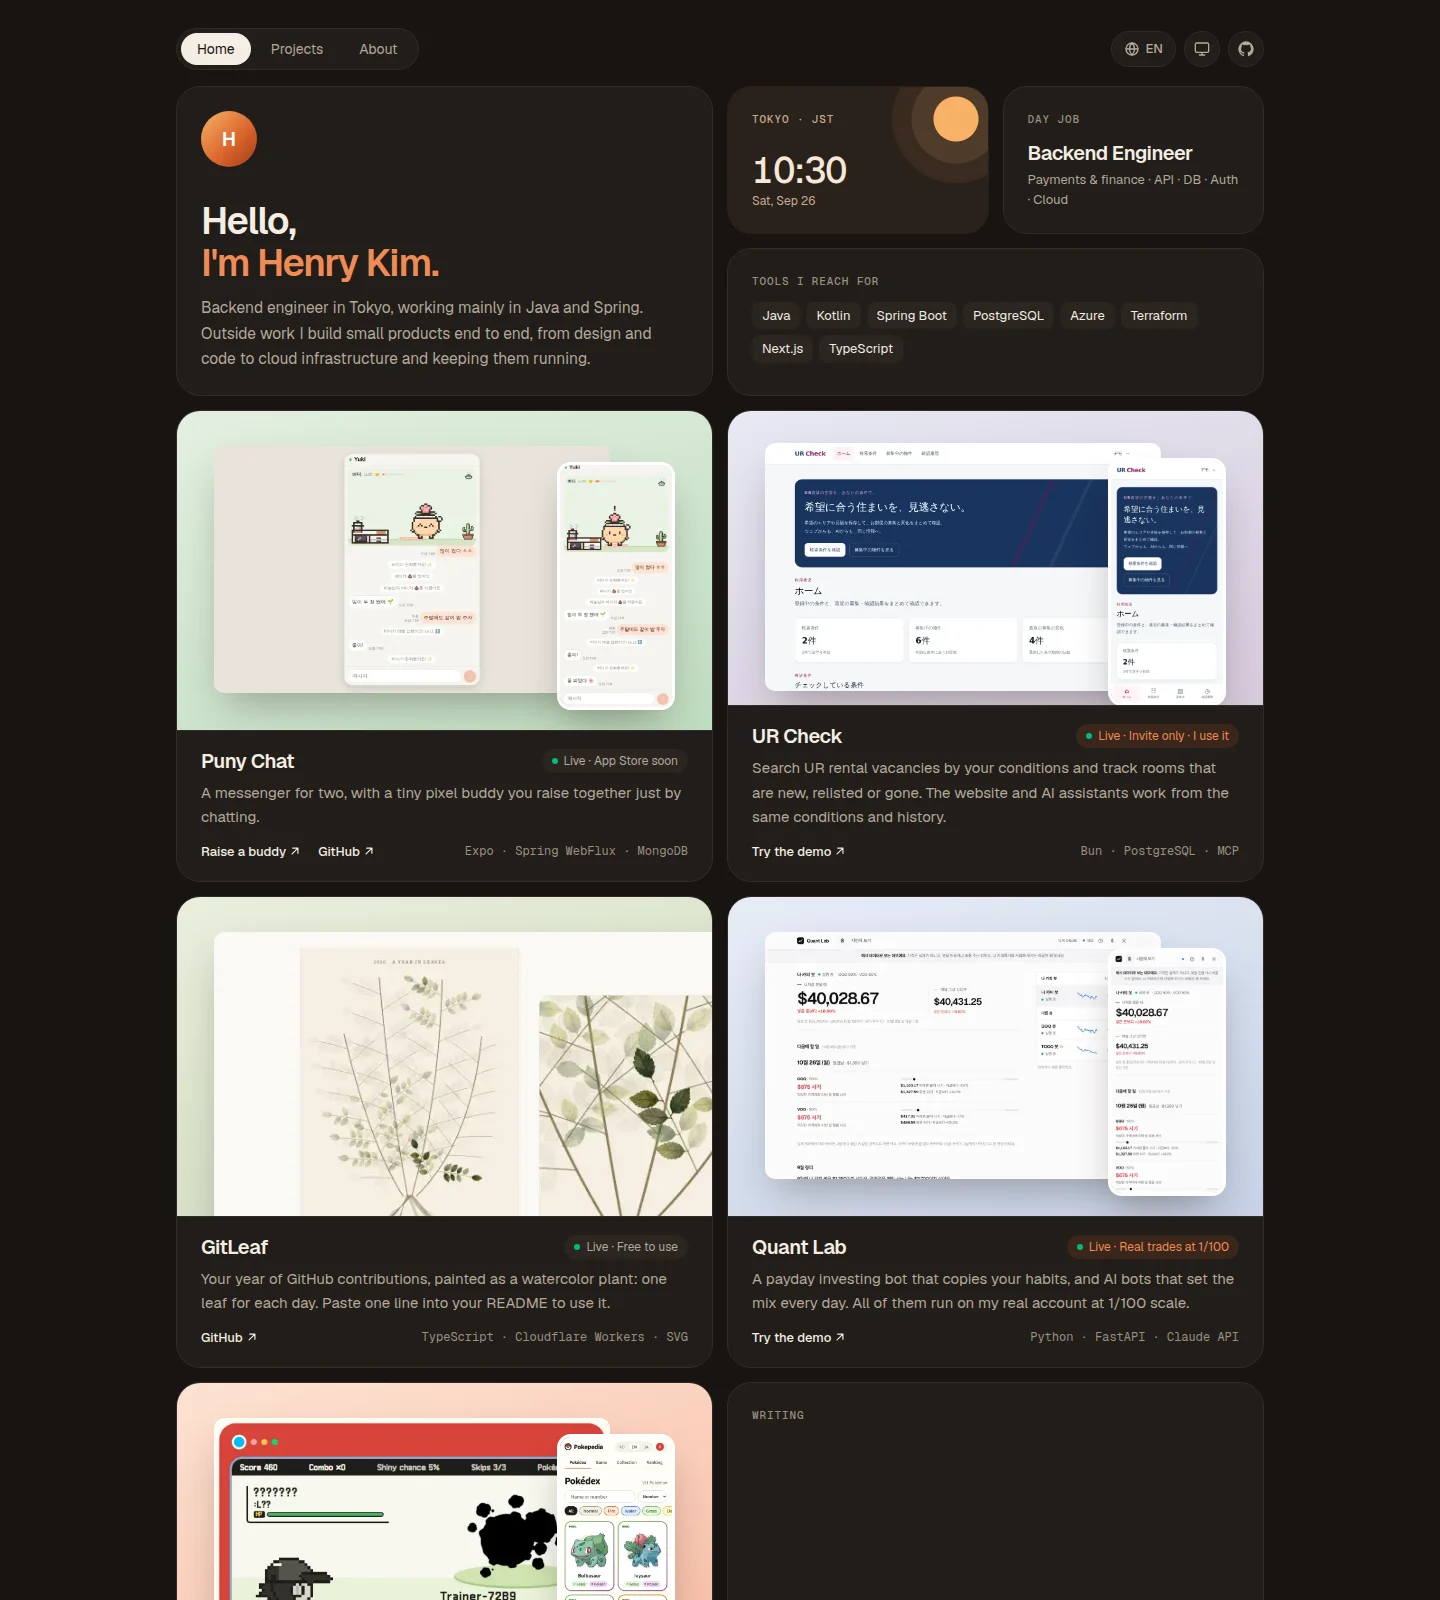
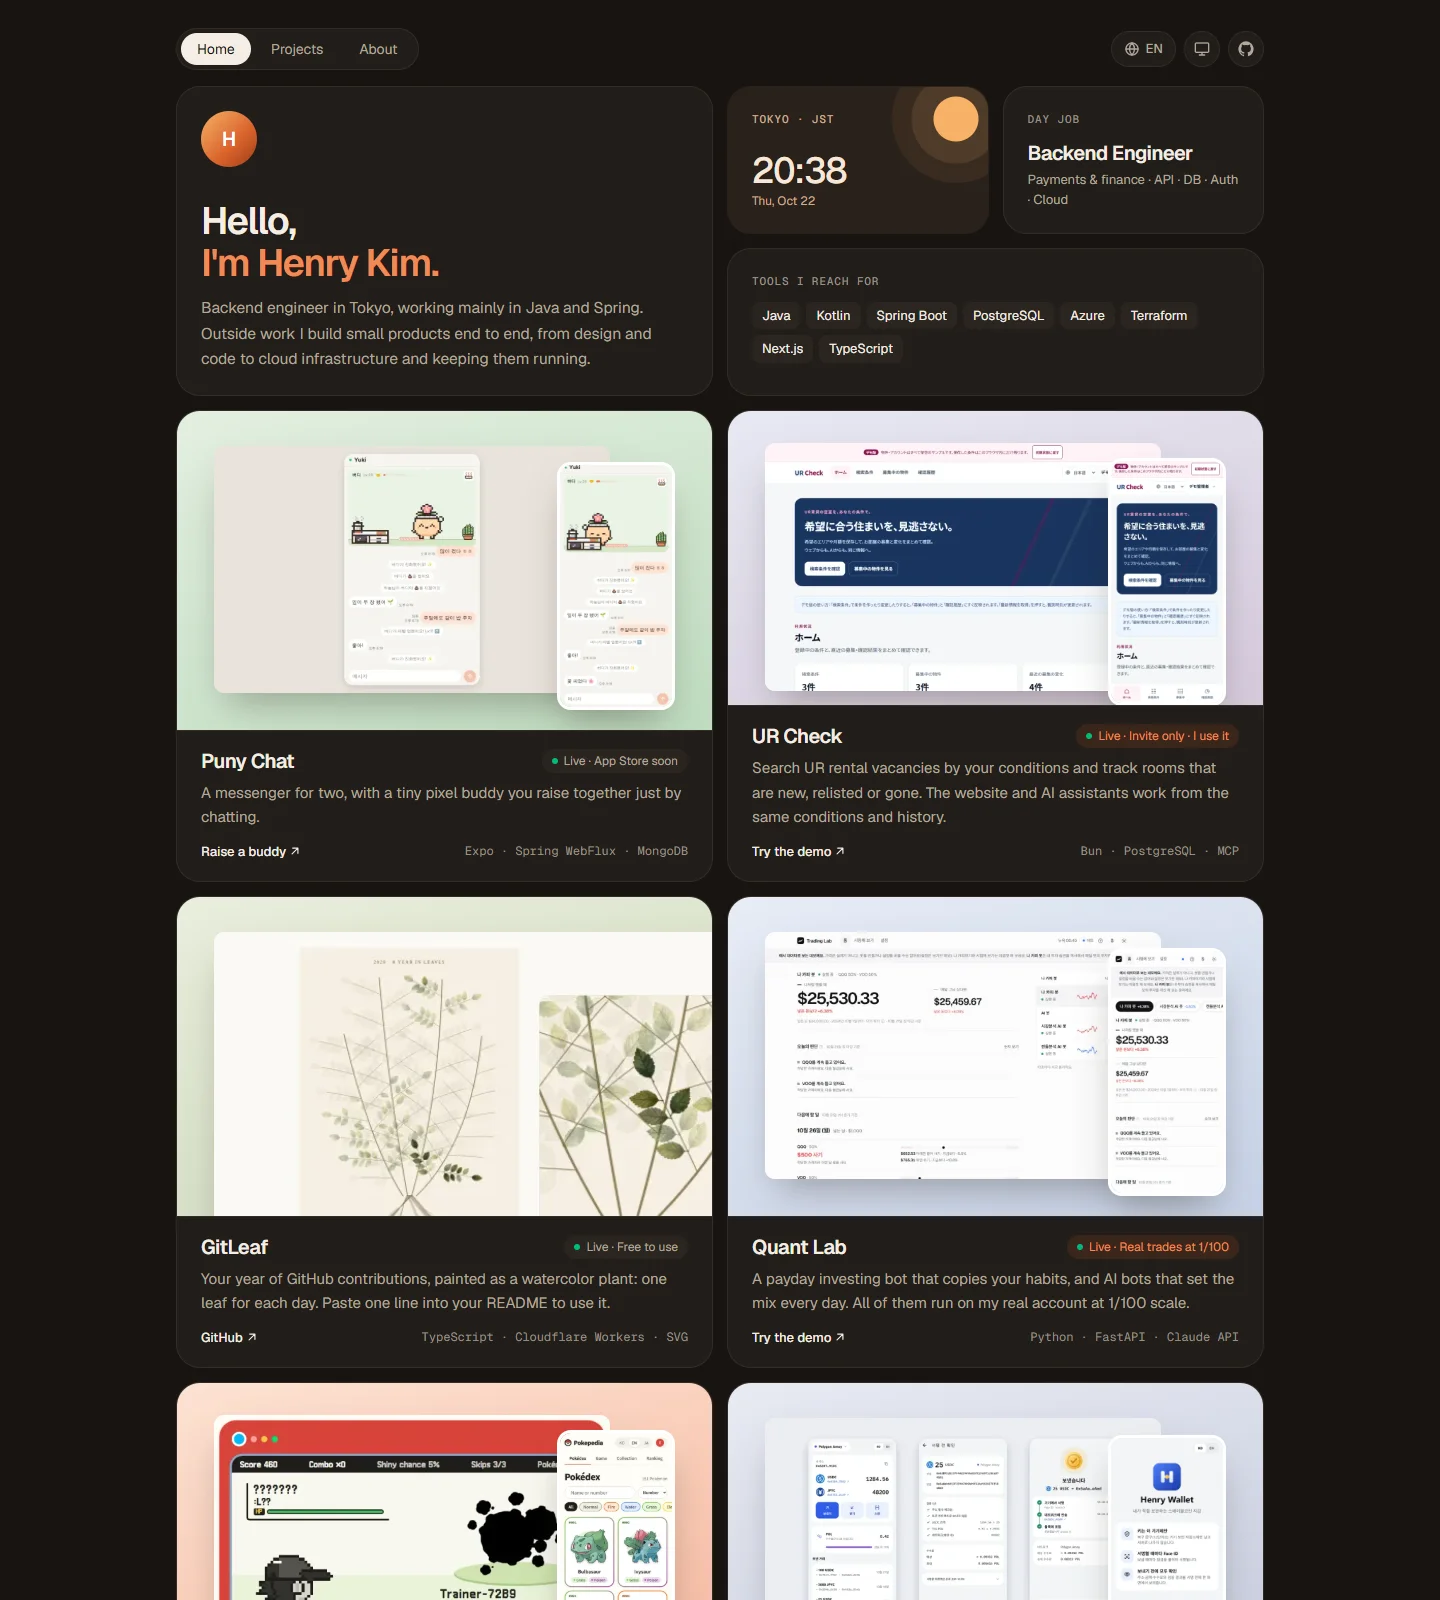
Profile: refresh the project list and portfolio preview
Trading Lab replaces Quant Lab, Pokepedia mentions its Unity battle and
links both repositories, Henry Wallet is added without a link, and Puny
Chat drops its private source link. The portfolio preview is retaken from
the current site.

diff --git a/README.md b/README.md
@@ -9,16 +9,18 @@ Before software, I spent my twenties as a hairstylist.
 
 #### Things I've built
 
-- **[Puny Chat](https://puny-chat.com)** — A messenger for two, with a tiny pixel buddy you raise together just by chatting. iPhone and web. [Source](https://github.com/ottuck/puny-chat)  
+- **[Puny Chat](https://puny-chat.com)** — A messenger for two, with a tiny pixel buddy you raise together just by chatting. iPhone and web, in Korean, English, Japanese and Chinese.  
   <sub>Expo · Spring WebFlux · MongoDB Atlas · AWS Lightsail · Cloudflare</sub>
 - **[UR Check](https://www.portfolio-hub.dev/projects/ur-check)** — Search UR rental vacancies by your conditions and keep track of rooms that are new, relisted or gone. The website and AI assistants share the same conditions. Invite only; it grew out of UR Manager and UR MCP App. [Demo](https://demo.ur-check.com)  
   <sub>Bun · Hono · PostgreSQL · React · MCP · AWS Lightsail</sub>
 - **[GitLeaf](https://www.portfolio-hub.dev/projects/gitleaf)** — Paints your year of GitHub contributions as a watercolor plant, one leaf for each day. Paste one line into your README to use it. [Source](https://github.com/ottuck/gitleaf)  
   <sub>TypeScript · Cloudflare Workers · D1 · R2 · SVG</sub>
-- **[Quant Lab](https://demo.trading-lab.me)** — A payday investing bot for US stocks that copies your habits, plus AI bots that set the mix every day. They run on my real account at 1/100 scale; the demo runs on synthetic prices.  
+- **[Trading Lab](https://demo.trading-lab.me)** — A payday investing bot for US stocks that copies your habits, next to two AI bots that set the mix every day: one reads the news, the other sees only the charts. They run on my real account at 1/100 scale; the demo runs on synthetic prices.  
   <sub>Python · FastAPI · PostgreSQL · React · Claude API · Docker · AWS Lightsail</sub>
-- **[Pokepedia](https://pokepedia.dev)** — A Game Boy–style “Who's that Pokémon?” battle with a Gen 1 Pokédex, in Korean, English and Japanese. [Source](https://github.com/ottuck/pokepedia)  
-  <sub>Next.js · Supabase · Vercel</sub>
+- **[Pokepedia](https://pokepedia.dev)** — A Game Boy–style “Who's that Pokémon?” quiz with a Gen 1 Pokédex, in Korean, English and Japanese. Win a Pikachu and it fights Blastoise in a turn-based battle built in Unity. [Source](https://github.com/ottuck/pokepedia) · [Battle source](https://github.com/ottuck/pokepedia-unity)  
+  <sub>Next.js · Supabase · Vercel · Unity (C#) · WebGL · Cloudflare Pages</sub>
+- **Henry Wallet** — A self-custody stablecoin wallet for iPhone. It holds USDC and JPYC, keeps the keys on the phone and signs every payment there after Face ID. On testnets for now.  
+  <sub>Expo · TypeScript · ethers · Polygon · Ethereum · Avalanche</sub>
 
 #### Usually working with
 
@@ -29,7 +31,7 @@ Java · Kotlin · Spring Boot · PostgreSQL · Azure · Terraform · Next.js · 
 <a href="https://www.portfolio-hub.dev">
   <picture>
     <source media="(prefers-color-scheme: dark)" srcset="images/portfolio-dark.webp" />
-    <img src="images/portfolio-light.webp" alt="portfolio-hub.dev — Henry Kim's portfolio with its projects: Puny Chat, UR Check, GitLeaf, Quant Lab and Pokepedia" />
+    <img src="images/portfolio-light.webp" alt="portfolio-hub.dev — Henry Kim's portfolio with its projects: Puny Chat, UR Check, GitLeaf, Quant Lab, Pokepedia and Henry Wallet" />
   </picture>
 </a>
 
